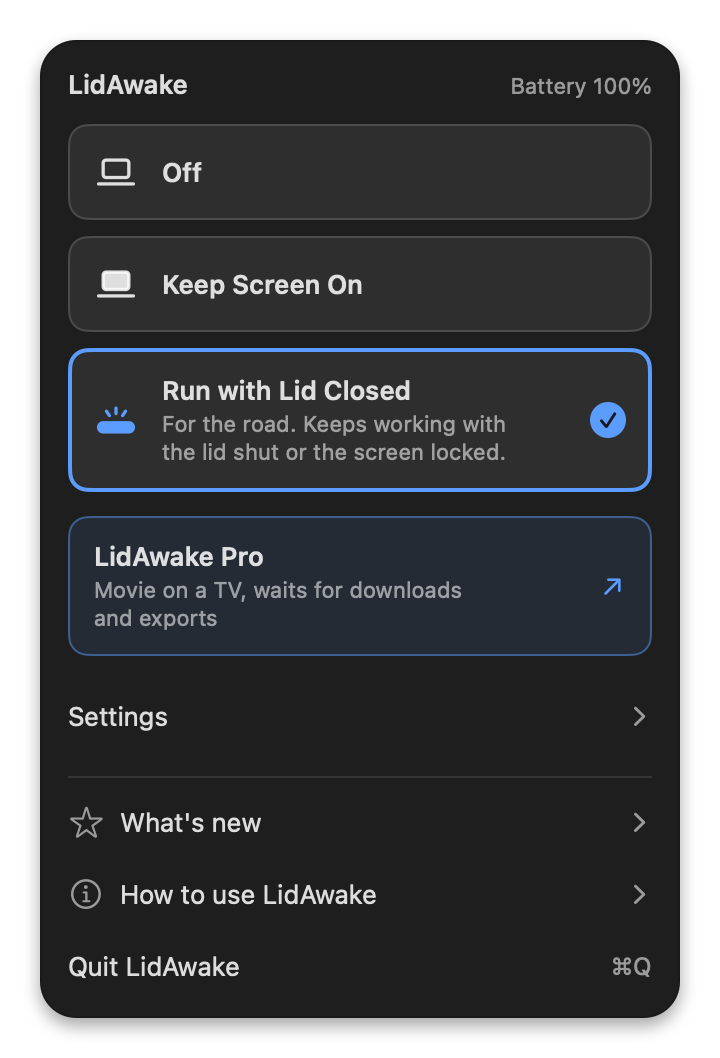
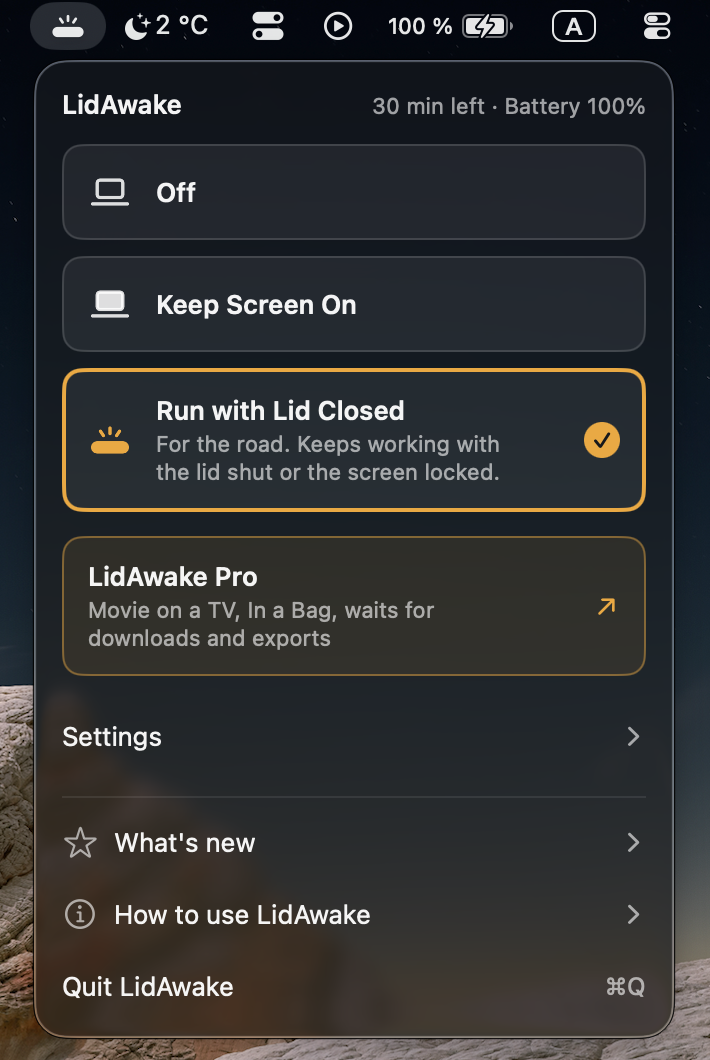
Update README screenshots and demo for 1.2.0

diff --git a/README.md b/README.md
@@ -9,7 +9,7 @@
 <p align="center">macOS 13+ · Apple silicon · MIT</p>
 
 <p align="center">
-  <img src="docs/images/demo.gif" width="335" alt="Animation: the LidAwake window opens, Keep Screen On and then Run with Lid Closed are selected, the settings are expanded, the accent is switched to Amber and the settings are collapsed">
+  <img src="docs/images/demo.gif" width="360" alt="Animation in dark mode with the Amber accent: Keep Screen On and then Run with Lid Closed are selected, the settings are expanded, protections and Sleep when idle are switched on and off, and the settings are collapsed">
 </p>
 
 ## Why LidAwake
@@ -40,9 +40,9 @@ The window shows the three modes as cards; only the selected one carries its sho
 <p align="center">
   <picture>
     <source media="(prefers-color-scheme: dark)" srcset="docs/images/window-dark.png">
-    <img src="docs/images/window-light.png" width="377" alt="The LidAwake window with Run with Lid Closed selected and the settings collapsed">
+    <img src="docs/images/window-light.png" width="357" alt="The LidAwake window with Run with Lid Closed selected and the settings collapsed">
   </picture>
-  <img src="docs/images/keep-screen-on.png" width="377" alt="The LidAwake window with Keep Screen On selected and the Turn off after timer under the mode cards">
+  <img src="docs/images/keep-screen-on.png" width="354" alt="The LidAwake window with Keep Screen On selected and the Turn off after timer under the mode cards">
 </p>
 
 ## Protections
@@ -94,11 +94,15 @@ caffeinate -i make release
 
 A coding agent in an editor thinks on a server and barely uses the processor, so on its own it can look idle. Watched apps in Settings fixes that: choose the editor or terminal you run it in. When a program that app started, together with the programs it started in turn, uses more than 0.5 seconds of processor time in a minute, LidAwake counts that minute as work; a program that only waits does not. The app's own processes, its windows included, are not counted as its work; typing or clicking in it counts as keyboard and mouse use, as in any other app. The window lists the apps that are open now and the watched apps that are not, and marks the ones whose started programs are working.
 
+<p align="center">
+  <img src="docs/images/watched-apps.png" width="472" alt="The Watched apps window: Code is watched and its started programs are working; Dia, Finder and Spark are open and not watched">
+</p>
+
 The first time Sleep when idle is on and the list has an app, in either order, Turn off after is set to 4 hours if it is off, so a stuck app can't keep the Mac awake forever; if a mode is running, this happens when it ends. This happens once, until the list is emptied, and not when Sleep when idle is on only for a session started by Wake at or for a list kept from a version before 1.2.0. You can change it in Settings.
 
 <p align="center">
-  <img src="docs/images/settings-blue.png" width="377" alt="The LidAwake window in Off with the settings expanded and the Blue accent">
-  <img src="docs/images/settings-amber.png" width="377" alt="The LidAwake window in Off with the settings expanded and the Amber accent">
+  <img src="docs/images/settings-blue.png" width="349" alt="The LidAwake window in Run with Lid Closed with the Safety settings expanded and the Blue accent">
+  <img src="docs/images/settings-amber.png" width="359" alt="The LidAwake window in dark mode in Run with Lid Closed with Safety and Sleep and Wake expanded and the Amber accent">
 </p>
 
 A closed laptop in a bag cools poorly. The protections reduce the risk; they do not remove it. The thermal protection reacts only to what macOS itself reports as overheating: in tests on a MacBook Air (M1) under full CPU load, the system reported a nominal thermal state throughout, so this protection has never been seen to trip.
@@ -119,6 +123,13 @@ Closed the Mac for the night, but need it in the morning for a scheduled job? Tu
 ## Activity log
 
 Activity log in Settings opens a window with what happened and when: a mode was turned on or off and why, the session was paused on battery and resumed, the Mac went to sleep and woke up, the Mac woke up on schedule or missed a scheduled wake. With Sleep when idle on, it also shows what kept the Mac awake (a program, a watched app whose started programs are working, processor load with the busiest process, or the keyboard and mouse) and when the quiet minutes started to count.
+
+<p align="center">
+  <picture>
+    <source media="(prefers-color-scheme: dark)" srcset="docs/images/activity-log-dark.png">
+    <img src="docs/images/activity-log-light.png" width="466" alt="The Activity log window with modes turned on and off">
+  </picture>
+</p>
 
 The log keeps the last 200 events in a file on this Mac, `~/Library/Application Support/com.vladimirpodgornyi.LidAwake/activity-log.json`, readable only by your user account. It is never sent anywhere. Clear in the log window empties it.
 
